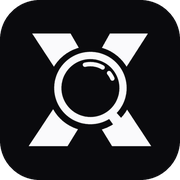
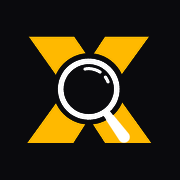
feat(brand): update brand assets, user-nav portal popover and polish canvas sidebar dock

diff --git a/components/auth/user-nav.tsx b/components/auth/user-nav.tsx
@@ -1,8 +1,9 @@
 "use client";
 
 import { useEffect, useState, useRef, useMemo } from "react";
+import { createPortal } from "react-dom";
 import { useRouter } from "next/navigation";
-import { User, LogOut, Settings, UserCircle, Terminal, Palette } from "lucide-react";
+import { User, LogOut, Settings, UserCircle, Terminal, Palette, LogIn } from "lucide-react";
 import type { User as SupabaseUser } from "@supabase/supabase-js";
 import { createClient } from "@/lib/supabase/client";
 import { emitInvestigationEvent } from "@/lib/investigation-events";
@@ -19,8 +20,21 @@ export function UserNav({ size = "md", placement = "default" }: UserNavProps) {
   const [loading, setLoading] = useState(true);
   const [isOpen, setIsOpen] = useState(false);
   const [isAdmin, setIsAdmin] = useState(false);
-  const dropdownRef = useRef<HTMLDivElement>(null);
+  const [isMounted, setIsMounted] = useState(false);
+  const [dropdownPos, setDropdownPos] = useState<{
+    left?: number;
+    right?: number;
+    top?: number;
+    bottom?: number;
+  } | null>(null);
+
+  const buttonRef = useRef<HTMLButtonElement>(null);
+  const menuRef = useRef<HTMLDivElement>(null);
   const supabase = useMemo(() => createClient(), []);
+
+  useEffect(() => {
+    setIsMounted(true);
+  }, []);
 
   useEffect(() => {
     const getUser = async () => {
@@ -58,19 +72,40 @@ export function UserNav({ size = "md", placement = "default" }: UserNavProps) {
     return () => subscription.unsubscribe();
   }, [supabase]);
 
-  // Xử lý click ra ngoài để đóng menu
+  // Xử lý click ra ngoài để đóng menu (hỗ trợ cả Portal)
   useEffect(() => {
     const handleClickOutside = (event: MouseEvent) => {
-      if (
-        dropdownRef.current &&
-        !dropdownRef.current.contains(event.target as Node)
-      ) {
+      const target = event.target as Node;
+      if (buttonRef.current && buttonRef.current.contains(target)) {
+        return;
+      }
+      if (menuRef.current && !menuRef.current.contains(target)) {
         setIsOpen(false);
       }
     };
-    document.addEventListener("mousedown", handleClickOutside);
+    if (isOpen) {
+      document.addEventListener("mousedown", handleClickOutside);
+    }
     return () => document.removeEventListener("mousedown", handleClickOutside);
-  }, []);
+  }, [isOpen]);
+
+  const handleToggle = () => {
+    if (!isOpen && buttonRef.current) {
+      const rect = buttonRef.current.getBoundingClientRect();
+      if (placement === "sidebar") {
+        setDropdownPos({
+          left: rect.right + 10,
+          bottom: Math.max(12, window.innerHeight - rect.bottom),
+        });
+      } else {
+        setDropdownPos({
+          right: Math.max(12, window.innerWidth - rect.right),
+          top: rect.bottom + 8,
+        });
+      }
+    }
+    setIsOpen((prev) => !prev);
+  };
 
   const handleLogout = async () => {
     await supabase.auth.signOut();
@@ -84,50 +119,65 @@ export function UserNav({ size = "md", placement = "default" }: UserNavProps) {
     return (
       <div
         className={cn(
-          "animate-pulse bg-muted rounded-full",
+          "animate-pulse bg-muted rounded-full shrink-0",
           isSmall ? "size-7.5" : "size-9"
         )}
       />
     );
   }
 
-  if (user) {
-    const firstLetter = user.email?.charAt(0).toUpperCase() || "U";
-    const isSuperAdmin = user.app_metadata?.role === "super_admin";
+  const firstLetter = user?.email?.charAt(0).toUpperCase() || "T";
 
-    return (
-      <div className="relative" ref={dropdownRef} data-user-nav="true">
-        <button
-          onClick={() => setIsOpen(!isOpen)}
-          className={cn(
-            "flex items-center justify-center rounded-full bg-primary text-primary-foreground font-semibold shadow-sm hover:opacity-90 transition-opacity focus:outline-none focus:ring-2 focus:ring-ring focus:ring-offset-2 focus:ring-offset-background",
-            isSmall ? "size-7.5 text-xs" : "size-9 text-sm"
-          )}
-          title="Tài khoản của bạn"
-        >
-          {firstLetter}
-        </button>
+  return (
+    <>
+      <button
+        ref={buttonRef}
+        onClick={handleToggle}
+        className={cn(
+          "flex items-center justify-center rounded-full font-semibold shadow-sm hover:opacity-90 transition-opacity focus:outline-none focus:ring-2 focus:ring-ring focus:ring-offset-2 focus:ring-offset-background cursor-pointer shrink-0 select-none",
+          user
+            ? "bg-primary text-primary-foreground"
+            : "bg-zinc-800 text-zinc-300 border border-zinc-700/80 hover:bg-zinc-700",
+          isSmall ? "size-7.5 text-xs" : "size-9 text-sm"
+        )}
+        title={user ? `Tài khoản: ${user.email}` : "Hồ sơ thám tử & Tùy chọn"}
+        data-user-nav="true"
+      >
+        {user ? (
+          firstLetter
+        ) : (
+          <User className={isSmall ? "size-3.5" : "size-4"} />
+        )}
+      </button>
 
-        {isOpen && (
+      {/* PORTAL DROPDOWN: Render trực tiếp vào document.body để không bao giờ bị overflow-hidden hay backdrop-filter của sidebar chặn/cắt */}
+      {isOpen && isMounted && typeof document !== "undefined" &&
+        createPortal(
           <div
-            className={cn(
-              "w-56 bg-popover text-popover-foreground rounded-xl shadow-2xl border border-border/70 p-1 z-50",
-              placement === "sidebar"
-                ? "absolute left-full bottom-0 ml-3 animate-in fade-in slide-in-from-left-2 duration-150"
-                : "absolute right-0 mt-2 shadow-lg border-border/60 animate-in fade-in slide-in-from-top-2 duration-200"
-            )}
+            ref={menuRef}
+            data-user-nav="true"
+            style={{
+              position: "fixed",
+              left: dropdownPos?.left,
+              right: dropdownPos?.right,
+              top: dropdownPos?.top,
+              bottom: dropdownPos?.bottom,
+              zIndex: 9999,
+            }}
+            className="w-56 bg-[#16181e]/98 text-zinc-100 rounded-xl shadow-2xl border border-zinc-700/80 p-1 backdrop-blur-2xl animate-in fade-in zoom-in-95 duration-150 select-none"
           >
-            <div className="px-3 py-2 border-b border-border/60 mb-1 flex items-center justify-between">
-              <div className="overflow-hidden">
-                <p className="text-xs text-muted-foreground">
-                  Đã đăng nhập bằng
+            {/* Header: Thông tin tài khoản hoặc trạng thái khách */}
+            <div className="px-3 py-2 border-b border-zinc-800/80 mb-1 flex items-center justify-between">
+              <div className="overflow-hidden min-w-0 flex-1">
+                <p className="text-[11px] text-zinc-400">
+                  {user ? "Đã đăng nhập bằng" : "Trạng thái người chơi"}
                 </p>
-                <p className="text-sm font-medium truncate" title={user.email}>
-                  {user.email}
+                <p className="text-xs font-semibold truncate text-zinc-200" title={user?.email || "Thám tử khách"}>
+                  {user ? user.email : "Thám tử khách"}
                 </p>
               </div>
               {isAdmin && (
-                <span className="px-1.5 py-0.5 rounded text-[10px] font-bold bg-destructive text-destructive-foreground ml-2">
+                <span className="px-1.5 py-0.5 rounded text-[10px] font-bold bg-destructive text-destructive-foreground ml-2 shrink-0">
                   ADMIN
                 </span>
               )}
@@ -140,57 +190,64 @@ export function UserNav({ size = "md", placement = "default" }: UserNavProps) {
                     setIsOpen(false);
                     router.push("/studio");
                   }}
-                  className="w-full flex items-center gap-2 px-2 py-1.5 text-sm rounded-md bg-indigo-500/10 text-indigo-500 hover:bg-indigo-500/20 transition-colors text-left font-medium border border-indigo-500/20 mb-1 cursor-pointer"
+                  className="w-full flex items-center gap-2 px-2 py-1.5 text-xs rounded-md bg-indigo-500/10 text-indigo-400 hover:bg-indigo-500/20 transition-colors text-left font-medium border border-indigo-500/20 mb-0.5 cursor-pointer"
                 >
                   <Terminal className="w-4 h-4" />
                   Creator Studio
                 </button>
               )}
+
+              {/* TÙY CHỌN MÀU BÀN HỒ SƠ (Khả dụng cho tất cả người chơi) */}
               <button
                 onClick={() => {
                   setIsOpen(false);
-                  setTimeout(() => emitInvestigationEvent("OPEN_CANVAS_THEME"), 20);
+                  setTimeout(() => emitInvestigationEvent("OPEN_CANVAS_THEME"), 50);
                 }}
-                className="w-full flex items-center gap-2 px-2 py-1.5 text-sm rounded-md bg-amber-500/10 text-amber-500 hover:bg-amber-500/20 transition-colors text-left font-medium border border-amber-500/20 mb-1 cursor-pointer"
+                className="w-full flex items-center gap-2 px-2 py-1.5 text-xs rounded-md bg-amber-500/10 text-amber-300 hover:bg-amber-500/20 transition-colors text-left font-medium border border-amber-500/20 mb-0.5 cursor-pointer"
               >
-                <Palette className="w-4 h-4 text-amber-500" />
+                <Palette className="w-4 h-4 text-amber-400" />
                 Màu bàn hồ sơ (Canvas)
               </button>
-              <button className="w-full flex items-center gap-2 px-2 py-1.5 text-sm rounded-md hover:bg-accent hover:text-accent-foreground transition-colors text-left cursor-not-allowed opacity-50">
-                <UserCircle className="w-4 h-4" />
-                Hồ sơ cá nhân
-              </button>
-              <button className="w-full flex items-center gap-2 px-2 py-1.5 text-sm rounded-md hover:bg-accent hover:text-accent-foreground transition-colors text-left cursor-not-allowed opacity-50">
-                <Settings className="w-4 h-4" />
-                Cài đặt
-              </button>
+
+              {user ? (
+                <>
+                  <button className="w-full flex items-center gap-2 px-2 py-1.5 text-xs rounded-md hover:bg-zinc-800 text-zinc-400 hover:text-zinc-200 transition-colors text-left cursor-not-allowed opacity-50">
+                    <UserCircle className="w-4 h-4" />
+                    Hồ sơ cá nhân
+                  </button>
+                  <button className="w-full flex items-center gap-2 px-2 py-1.5 text-xs rounded-md hover:bg-zinc-800 text-zinc-400 hover:text-zinc-200 transition-colors text-left cursor-not-allowed opacity-50">
+                    <Settings className="w-4 h-4" />
+                    Cài đặt
+                  </button>
+                </>
+              ) : (
+                <button
+                  onClick={() => {
+                    setIsOpen(false);
+                    router.push("/login");
+                  }}
+                  className="w-full flex items-center gap-2 px-2 py-1.5 text-xs rounded-md bg-primary/10 text-primary hover:bg-primary/20 transition-colors text-left font-medium cursor-pointer"
+                >
+                  <LogIn className="w-4 h-4" />
+                  Đăng nhập tài khoản
+                </button>
+              )}
             </div>
 
-            <div className="border-t border-border/60 mt-1 p-1">
-              <button
-                onClick={handleLogout}
-                className="w-full flex items-center gap-2 px-2 py-1.5 text-sm rounded-md hover:bg-destructive/10 hover:text-destructive transition-colors text-left text-destructive font-medium"
-              >
-                <LogOut className="w-4 h-4" />
-                Đăng xuất
-              </button>
-            </div>
-          </div>
+            {user && (
+              <div className="border-t border-zinc-800/80 mt-1 p-1">
+                <button
+                  onClick={handleLogout}
+                  className="w-full flex items-center gap-2 px-2 py-1.5 text-xs rounded-md hover:bg-destructive/15 hover:text-destructive transition-colors text-left text-destructive font-medium cursor-pointer"
+                >
+                  <LogOut className="w-4 h-4" />
+                  Đăng xuất
+                </button>
+              </div>
+            )}
+          </div>,
+          document.body
         )}
-      </div>
-    );
-  }
-
-  return (
-    <button
-      onClick={() => router.push("/login")}
-      className={cn(
-        "hover:bg-accent hover:text-accent-foreground rounded-full transition-colors cursor-pointer flex items-center justify-center",
-        isSmall ? "p-1.5" : "p-2"
-      )}
-      title="Đăng nhập"
-    >
-      <User className={isSmall ? "size-4" : "size-5"} />
-    </button>
+    </>
   );
 }

diff --git a/components/investigation/evidence/workspaces/canvas-investigation-workspace.tsx b/components/investigation/evidence/workspaces/canvas-investigation-workspace.tsx
@@ -629,12 +629,13 @@ export function CanvasInvestigationWorkspace({
       >
         {/* PHẦN TRÊN: LOGO THƯƠNG HIỆU + CÁC CÔNG CỤ ĐIỀU TRA CHÍNH */}
         <div className="flex flex-col items-center gap-1.5 w-full">
-          {/* Logo XPLORE ở đỉnh sidebar */}
-          <div className="pb-2 border-b border-[#262c38]/80 w-full flex items-center justify-center">
+          {/* Logo XPLORE (phiên bản favicon) ở đỉnh sidebar */}
+          <div className="pt-0.5 pb-1 w-full flex items-center justify-center">
             <BrandMark
               href="/"
-              className="flex items-center justify-center p-1 rounded-lg hover:bg-zinc-800/60 transition-colors"
-              imageClassName="h-3.5 w-auto object-contain"
+              variant="favicon"
+              className="flex items-center justify-center p-1 rounded-xl hover:bg-zinc-800/60 transition-colors"
+              imageClassName="size-7.5 sm:size-8 object-contain"
             />
           </div>
 
@@ -745,7 +746,7 @@ export function CanvasInvestigationWorkspace({
         </div>
 
         {/* PHẦN DƯỚI: TIỆN ÍCH HỆ THỐNG, CHƠI NHÓM & USER PROFILE */}
-        <div className="flex flex-col items-center gap-1.5 w-full pt-2 border-t border-[#262c38]/80">
+        <div className="flex flex-col items-center gap-1.5 w-full pt-1">
           {/* 6. Chơi nhóm */}
           <button
             type="button"

diff --git a/components/investigation/brand-mark.tsx b/components/investigation/brand-mark.tsx
@@ -8,17 +8,24 @@ export function BrandMark({
   className,
   imageClassName,
   href,
+  variant = 'full',
 }: {
   className?: string
   imageClassName?: string
   href?: string
+  variant?: 'full' | 'favicon'
 }) {
   const content = (
     <div className={cn('inline-flex items-center justify-center', className)}>
       <img
-        src="/brand/logo.png"
+        src={variant === 'favicon' ? '/brand/favicon.png' : '/brand/logo.png'}
         alt="XPLORE"
-        className={cn('h-6 sm:h-7 w-auto object-contain block', imageClassName)}
+        className={cn(
+          variant === 'favicon'
+            ? 'size-7.5 sm:size-8 object-contain block'
+            : 'h-6 sm:h-7 w-auto object-contain block',
+          imageClassName
+        )}
       />
     </div>
   )

diff --git a/app/brand/page.tsx b/app/brand/page.tsx
@@ -213,11 +213,9 @@ export default function BrandGuidelinesPage() {
 
               <div className="flex items-center justify-center py-6">
                 <img
-                  src="/brand/logo-x.png"
+                  src={logoTheme === 'light' ? '/brand/logo-x-light.png' : '/brand/logo-x.png'}
                   alt="XPLORE Mark"
-                  className={`max-h-16 w-auto object-contain transition-all ${
-                    logoTheme === 'light' ? 'invert brightness-50' : ''
-                  }`}
+                  className="max-h-16 w-auto object-contain transition-all"
                 />
               </div>
 
